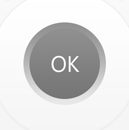
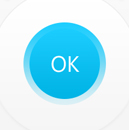
click

Changed region(s): [[0.155, 0.1538, 0.8372, 0.7692]]

diff --git a/jidinghe.html b/jidinghe.html
@@ -3,6 +3,8 @@
 <head lang="zh-CN">  
 <meta http-equiv="Content-Type" content="text/html; charset=utf-8" />
 <meta content="width=device-width, initial-scale=1.0, maximum-scale=1.0, user-scalable=0;" name="viewport" />
+<script src="http://code.jquery.com/jquery-2.1.4.min.js"></script>
+<script src="js/jidinghe.js"></script>
 <title>智慧家</title>
 </head>
 <style>
@@ -56,7 +58,7 @@
 		float:left;
 	}
 	.menu {
-		width:12%;
+		width:15%;
 		float:right;
 		padding-right:10%;
 	}
@@ -120,7 +122,10 @@
 	</div>
 	<div class="controller">
 		<div class="size">
-			<span class="img"><img src="images/zip2/jdh_up_01.jpg"/></span>
+			<span class="img">
+				<img id="up_01" style="display:block" src="images/zip2/jdh_up_01.jpg"/>
+				<img id="up_01_down" style="display:none" src="images/zip2/jdh_up_01_down.jpg"/>
+			</span>
 			<span class="img">
 				<img src="images/zip2/jdh_up_02.jpg"/>
 				<img src="images/zip2/jdh_up_03.jpg"/>

diff --git a/js/jidinghe.js b/js/jidinghe.js
@@ -1,0 +1,10 @@
+$(document).ready(function(){
+	$("#up_01").mousedown(function(){
+		$("#up_01").css("display","none");
+		$("#up_01_down").css("display","block");
+	});
+	$("#up_01_down").mouseup(function(){
+		$("#up_01").css("display","block");
+		$("#up_01_down").css("display","none");
+	});
+});
